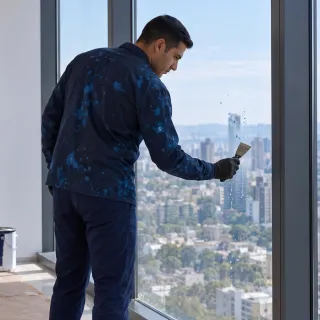
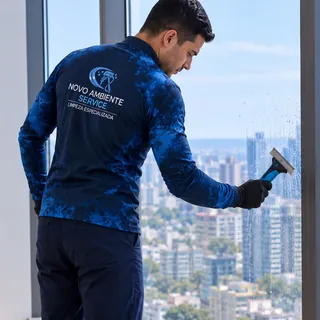
Retorno de 27/11: menu no celular (botao Menu abre a lista das paginas; Orcamento do topo sai abaixo de 48rem, a barra do WhatsApp faz o papel), cartoes quadrados com o recorte puxado pra ferramenta (vitrine recortada no tecnico, haste da fachada e da casa inteiras), pos-obra com a imagem dela (unif

diff --git a/site/servico.css b/site/servico.css
@@ -206,3 +206,46 @@
 .eb .b-cartao .b-bolinha:not(.b-bolinha-grande) { display: block; width: fit-content; height: auto; margin-bottom: 0; border-radius: 0; background: none; box-shadow: none; color: var(--destaque); }
 .eb .b-cartao .b-bolinha:not(.b-bolinha-grande) .ico { width: 2.75rem; height: 2.75rem; }
 .sv .b-tambem .b-cartao-link .b-bolinha .ico { width: 2.25rem; height: 2.25rem; }
+
+/* 27/11, pedido do Lucas: nos cartões a ferramenta ficava fora do recorte (4:3 numa foto em pé mostrava 60% dela).
+   Quadrado mostra 80% da foto, e o object-position de cada uma (paginas.mjs e conteudo.mjs) puxa pra onde está o rodo,
+   a haste ou o raspador. O cartão grande do computador continua com a altura do texto */
+.b-servico img:not(.largo) { aspect-ratio: 1; }
+@media (min-width: 62rem) { .b-servico-grande img:not(.largo) { aspect-ratio: auto; } }
+
+/* ---------- 27/11, pedido dela: menu no celular ----------
+   Abaixo de 62rem os links do topo somem; no lugar entra o botão "Menu", que abre a lista das páginas logo
+   abaixo do topo. Abaixo de 48rem o "Orçamento" do topo sai: lá a barra fixa do WhatsApp já faz esse papel e
+   não cabem logo, Orçamento e Menu lado a lado. Sem script o botão não aparece (o rodapé tem os links) */
+.menu-botao, .topo .menu-celular { display: none; } /* .topo nav vira flex no computador: aqui precisa ganhar dele */
+@media (max-width: 61.99rem) {
+  .js .menu-botao { display: inline-flex; align-items: center; gap: .5rem; min-height: 2.75rem; padding: .5rem 1rem; border: 0; border-radius: 8px; background: rgba(8, 25, 42, .55); color: inherit; box-shadow: inset 0 0 0 1px currentColor; font: 500 .8125rem/1 var(--sans); letter-spacing: .05em; text-transform: uppercase; cursor: pointer; }
+  .menu-botao svg { width: 1.25rem; height: 1.25rem; fill: none; stroke: currentColor; stroke-width: 1.6; stroke-linecap: round; overflow: visible; }
+  .menu-botao path { transition: transform .3s var(--sai), opacity .2s var(--sai); transform-origin: 12px 12px; }
+  .menu-botao[aria-expanded="true"] .mb-1 { transform: translateY(5px) rotate(45deg); }
+  .menu-botao[aria-expanded="true"] .mb-2 { opacity: 0; }
+  .menu-botao[aria-expanded="true"] .mb-3 { transform: translateY(-5px) rotate(-45deg); }
+  .topo .wrap { gap: .5rem; }
+  .topo .botao-topo { margin-left: auto; }
+  .topo.solido .menu-botao, .topo.menu-aberto .menu-botao { background: transparent; box-shadow: inset 0 0 0 1px var(--marinho); }
+
+  .js .topo .menu-celular:not([hidden]) { display: block; position: absolute; inset: 100% 0 auto; max-height: calc(100svh - 4.75rem); overflow-y: auto; background: var(--off); color: var(--marinho);
+    box-shadow: 0 0 0 100vmax rgba(2, 11, 20, .45); clip-path: inset(0 0 -100vmax 0); animation: menu-desce .35s var(--sai); }
+  .menu-celular ul { width: min(100% - 2.5rem, 40rem); margin-inline: auto; padding: .5rem 0 1.25rem; list-style: none; }
+  .menu-celular li + li { border-top: 1px solid var(--linha); }
+  .menu-celular a { display: flex; align-items: center; justify-content: space-between; gap: 1rem; min-height: 3.5rem; padding-block: 0; background: none; font: 400 1.375rem/1.2 var(--serif); letter-spacing: -.005em; text-decoration: none; }
+  .menu-celular a svg { flex: none; width: 1rem; height: 1rem; color: var(--botao); }
+  .menu-celular a[aria-current="page"] { color: var(--botao); }
+  .menu-celular a[aria-current="page"]::after { content: "você está aqui"; margin-left: auto; font: 500 .75rem/1 var(--sans); letter-spacing: .05em; text-transform: uppercase; color: var(--texto-2); }
+  .menu-celular a[aria-current="page"] svg { display: none; }
+
+  /* menu aberto: o topo fica sólido e a logo já no tamanho pequeno, mesmo no alto da página */
+  .topo.menu-aberto { background: var(--off); color: var(--marinho); box-shadow: 0 1px 0 var(--linha); }
+  .topo.menu-aberto .logo-clara { opacity: 0; }
+  .topo.menu-aberto .logo-escura { opacity: 1; }
+  .js .topo.menu-aberto .marca-logo { height: var(--logo-menu); transform: none !important; }
+  .topo.menu-aberto .botao-topo:not(:hover) { background: var(--marinho); color: var(--off); box-shadow: none; }
+}
+@media (max-width: 47.99rem) { .topo .botao-topo { display: none; } .js .menu-botao { margin-left: auto; } }
+@keyframes menu-desce { from { opacity: 0; transform: translateY(-.5rem); } }
+@media (prefers-reduced-motion: reduce) { .menu-celular { animation: none !important; } .menu-botao path { transition: none; } }

diff --git a/script.js b/script.js
@@ -85,3 +85,27 @@
     document.querySelectorAll('[data-esconde-barra]').forEach(function (a) { ob.observe(a); });
   }
 })();
+
+/* 27/11: menu do celular. O botão "Menu" abre a lista das páginas; fecha no X, no Esc, tocando fora
+   ou quando a tela passa a ter o menu de computador */
+(function () {
+  var botao = document.querySelector('.menu-botao');
+  var lista = document.getElementById('menu-celular');
+  var topo = document.querySelector('.topo');
+  if (!botao || !lista || !topo) return;
+  function abrir(sim) {
+    botao.setAttribute('aria-expanded', sim ? 'true' : 'false');
+    botao.querySelector('span').textContent = sim ? 'Fechar' : 'Menu';
+    lista.hidden = !sim;
+    topo.classList.toggle('menu-aberto', sim);
+  }
+  botao.addEventListener('click', function () { abrir(lista.hidden); });
+  document.addEventListener('keydown', function (e) {
+    if (e.key === 'Escape' && !lista.hidden) { abrir(false); botao.focus(); }
+  });
+  document.addEventListener('click', function (e) {
+    if (!lista.hidden && !topo.contains(e.target)) abrir(false);
+  });
+  lista.addEventListener('click', function (e) { if (e.target.closest('a')) abrir(false); });
+  window.matchMedia('(min-width: 62rem)').addEventListener('change', function (m) { if (m.matches) abrir(false); });
+})();
